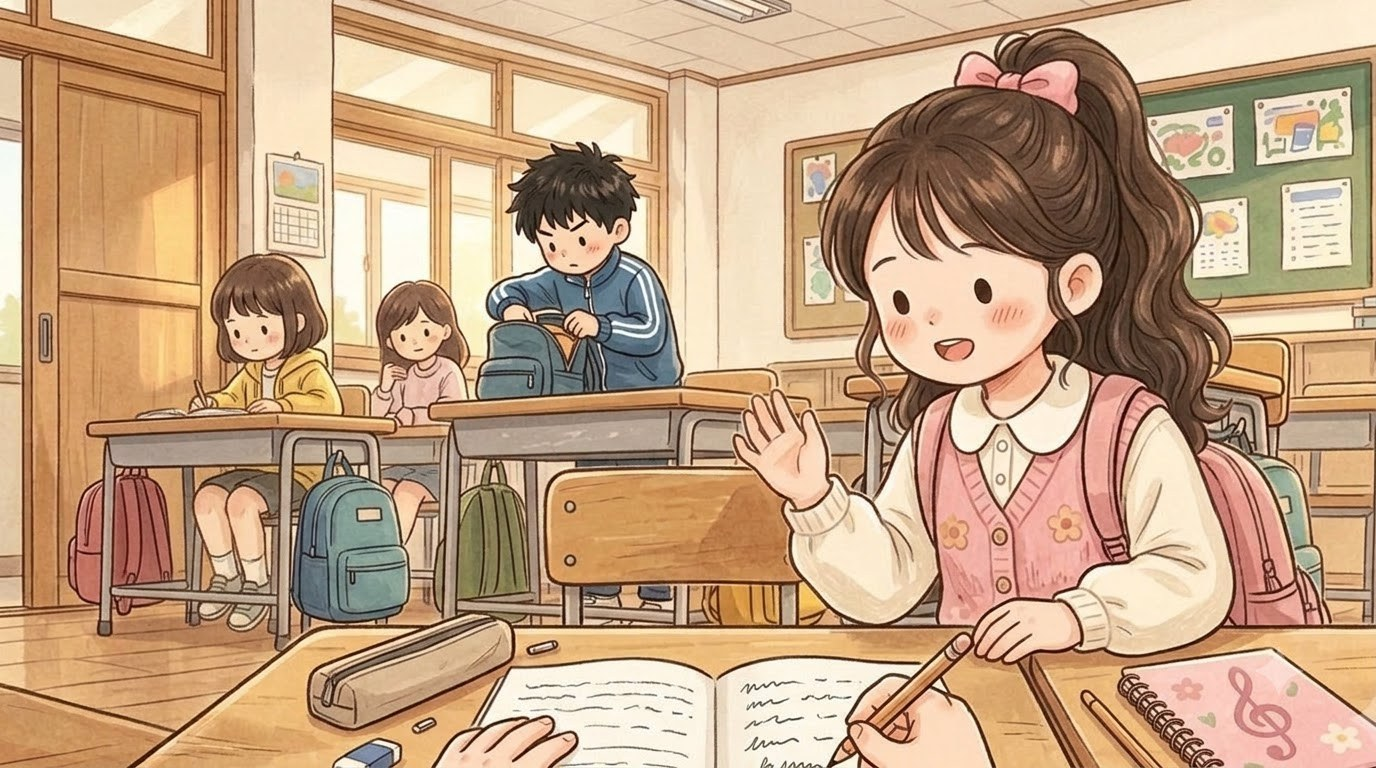
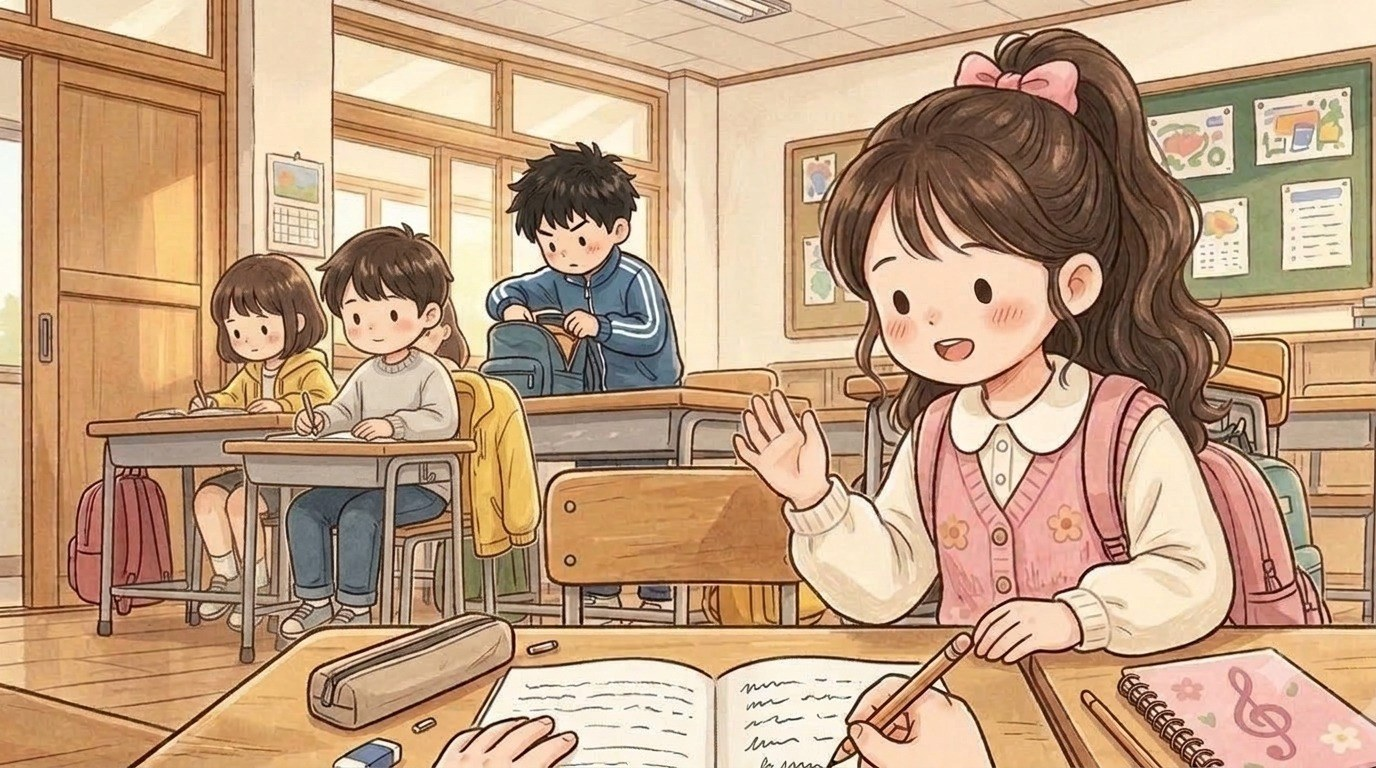
yena_02c: whole child at the left back desk (no legs-only kid, jacket on the chair) (BUILD 1107165749)

Changed region(s): [[0.1562, 0.2812, 0.4062, 0.875], [0.8438, 0.9375, 0.875, 0.9688]]

diff --git a/index.html b/index.html
@@ -119,14 +119,14 @@ body,button{word-break:keep-all;overflow-wrap:break-word}
 <div id="fader"></div>
 <script>
 // same address, newest version: if the page this phone has kept is older than the one online, fetch the new one and reopen
-const BUILD='1107165052';
+const BUILD='1107165749';
 try{fetch(location.pathname,{cache:'no-store'}).then(r=>r.text()).then(t=>{const m=t.match(/const BUILD='(\d+)'/);if(m&&m[1]!==BUILD&&sessionStorage.getItem('upd')!==m[1]){sessionStorage.setItem('upd',m[1]);fetch(location.pathname,{cache:'reload'}).then(()=>location.reload())}}).catch(()=>{})}catch(e){}
 </script>
-<script src="i18n.js?v=1107165052"></script>
-<script src="i18n_prologue_v2.js?v=1107165052"></script>
-<script src="day2/i18n_engine.js?v=1107165052"></script>
-<script src="day2/data.js?v=1107165052"></script>
-<script src="day3/data.js?v=1107165052"></script>
+<script src="i18n.js?v=1107165749"></script>
+<script src="i18n_prologue_v2.js?v=1107165749"></script>
+<script src="day2/i18n_engine.js?v=1107165749"></script>
+<script src="day2/data.js?v=1107165749"></script>
+<script src="day3/data.js?v=1107165749"></script>
 <script>
 // ---------- data ----------
 const MW=1672,MH=941,KID=180;
@@ -569,35 +569,35 @@ function pickHero(){const m=document.getElementById('modal'),c=document.getEleme
  c.innerHTML=`<h2>${tr('전학생 반장되기')}</h2><p>${tr('한국말이 아직 서툰 전학생,<br>반장 선거에 나가다.')}</p><p style="margin-top:14px">${tr('누구로 할까요?')}</p>${(()=>{const s=loadSave();return s&&s.day>=2&&s.mode===UI+'-'+LANG?`<p><button class="big" id="cont">${tr('{n}일차부터 이어 하기').replace('{n}',s.day)}</button></p>`:''})()}<div class="pick heroes"><button data-h="hero_f"><img src="faces/hero_f_smile.jpg" alt="여자 주인공">${heroName(1)}</button><button data-h="hero_m"><img src="faces/hero_m_smile.jpg" alt="남자 주인공">${heroName(0)}</button></div>`;
  m.classList.add('on');{const cb=document.getElementById('cont');if(cb)cb.onclick=()=>{const s=loadSave();HERO=s.hero;Object.assign(HEART,s.heart||{});(s.found||[]).forEach(k=>FOUND.add(k));HEART_D1={...HEART};chime();(typeof contGame==='function'?contGame(s):startDay(Math.min(s.day,Object.keys(window.D3||{}).length?3:2)))}}c.querySelectorAll('.pick button').forEach(b=>b.onclick=()=>{HERO=b.dataset.h;m.classList.remove('on');chime();bgm('day');load('home_am');say([['nar','','이사 온 다음 날 아침. 아직 풀지 못한 상자들이 쌓여 있다.'],['think','sad','(오늘부터 새 학교야. 여기 말도 아직 서툰데…….)'],['think','smile','({m}한테 인사하고 학교 가야지.)']],morning)})}
 </script>
-<script src="day2/engine.js?v=1107165052"></script>
-<script src="day2/ep_minho.js?v=1107165052"></script>
-<script src="day2/meet.js?v=1107165052"></script>
-<script src="day2/ep_sua.js?v=1107165052"></script>
-<script src="day2/ep_hangyeol.js?v=1107165052"></script>
-<script src="day2/ep_siwoo.js?v=1107165052"></script>
-<script src="day2/ep_haram.js?v=1107165052"></script>
-<script src="day2/ep_jiho.js?v=1107165052"></script>
-<script src="day2/ep_hyeeun.js?v=1107165052"></script>
-<script src="day2/ep_haneul.js?v=1107165052"></script>
-<script src="day2/ep_junho.js?v=1107165052"></script>
-<script src="day2/ep_yuna.js?v=1107165052"></script>
-<script src="day2/ep_yena.js?v=1107165052"></script>
-<script src="day2/ep_haeun.js?v=1107165052"></script>
-<script src="day2/ep_youngmin.js?v=1107165052"></script>
-<script src="day2/ep_seah.js?v=1107165052"></script>
-<script src="day2/ep_jihoon.js?v=1107165052"></script>
-<script src="words_ja_ru.js?v=1107165052"></script>
-<script src="day2/mybag.js?v=1107165052"></script>
-<script src="day2/wordpics.js?v=1107165052"></script>
-<script src="day2/spots.js?v=1107165052"></script>
-<script src="day2/textfit.js?v=1107165052"></script>
-<script src="day2/tester.js?v=1107165052"></script>
-<script src="day2/ux.js?v=1107165052"></script>
-<script src="day2/tapword.js?v=1107165052"></script>
-<script src="day2/review.js?v=1107165052"></script>
-<script src="day2/plane.js?v=1107165052"></script>
-<script src="day2/ep_ending.js?v=1107165052"></script>
-<script src="day2/ending.js?v=1107165052"></script>
+<script src="day2/engine.js?v=1107165749"></script>
+<script src="day2/ep_minho.js?v=1107165749"></script>
+<script src="day2/meet.js?v=1107165749"></script>
+<script src="day2/ep_sua.js?v=1107165749"></script>
+<script src="day2/ep_hangyeol.js?v=1107165749"></script>
+<script src="day2/ep_siwoo.js?v=1107165749"></script>
+<script src="day2/ep_haram.js?v=1107165749"></script>
+<script src="day2/ep_jiho.js?v=1107165749"></script>
+<script src="day2/ep_hyeeun.js?v=1107165749"></script>
+<script src="day2/ep_haneul.js?v=1107165749"></script>
+<script src="day2/ep_junho.js?v=1107165749"></script>
+<script src="day2/ep_yuna.js?v=1107165749"></script>
+<script src="day2/ep_yena.js?v=1107165749"></script>
+<script src="day2/ep_haeun.js?v=1107165749"></script>
+<script src="day2/ep_youngmin.js?v=1107165749"></script>
+<script src="day2/ep_seah.js?v=1107165749"></script>
+<script src="day2/ep_jihoon.js?v=1107165749"></script>
+<script src="words_ja_ru.js?v=1107165749"></script>
+<script src="day2/mybag.js?v=1107165749"></script>
+<script src="day2/wordpics.js?v=1107165749"></script>
+<script src="day2/spots.js?v=1107165749"></script>
+<script src="day2/textfit.js?v=1107165749"></script>
+<script src="day2/tester.js?v=1107165749"></script>
+<script src="day2/ux.js?v=1107165749"></script>
+<script src="day2/tapword.js?v=1107165749"></script>
+<script src="day2/review.js?v=1107165749"></script>
+<script src="day2/plane.js?v=1107165749"></script>
+<script src="day2/ep_ending.js?v=1107165749"></script>
+<script src="day2/ending.js?v=1107165749"></script>
 <script>
 // the goal shows big for a few seconds, then folds into a small pill (tap it to open it again)
 {const g=document.getElementById('goal');let t=null;const big=()=>{g.classList.remove('mini');clearTimeout(t);t=setTimeout(()=>g.classList.add('mini'),4000)};
